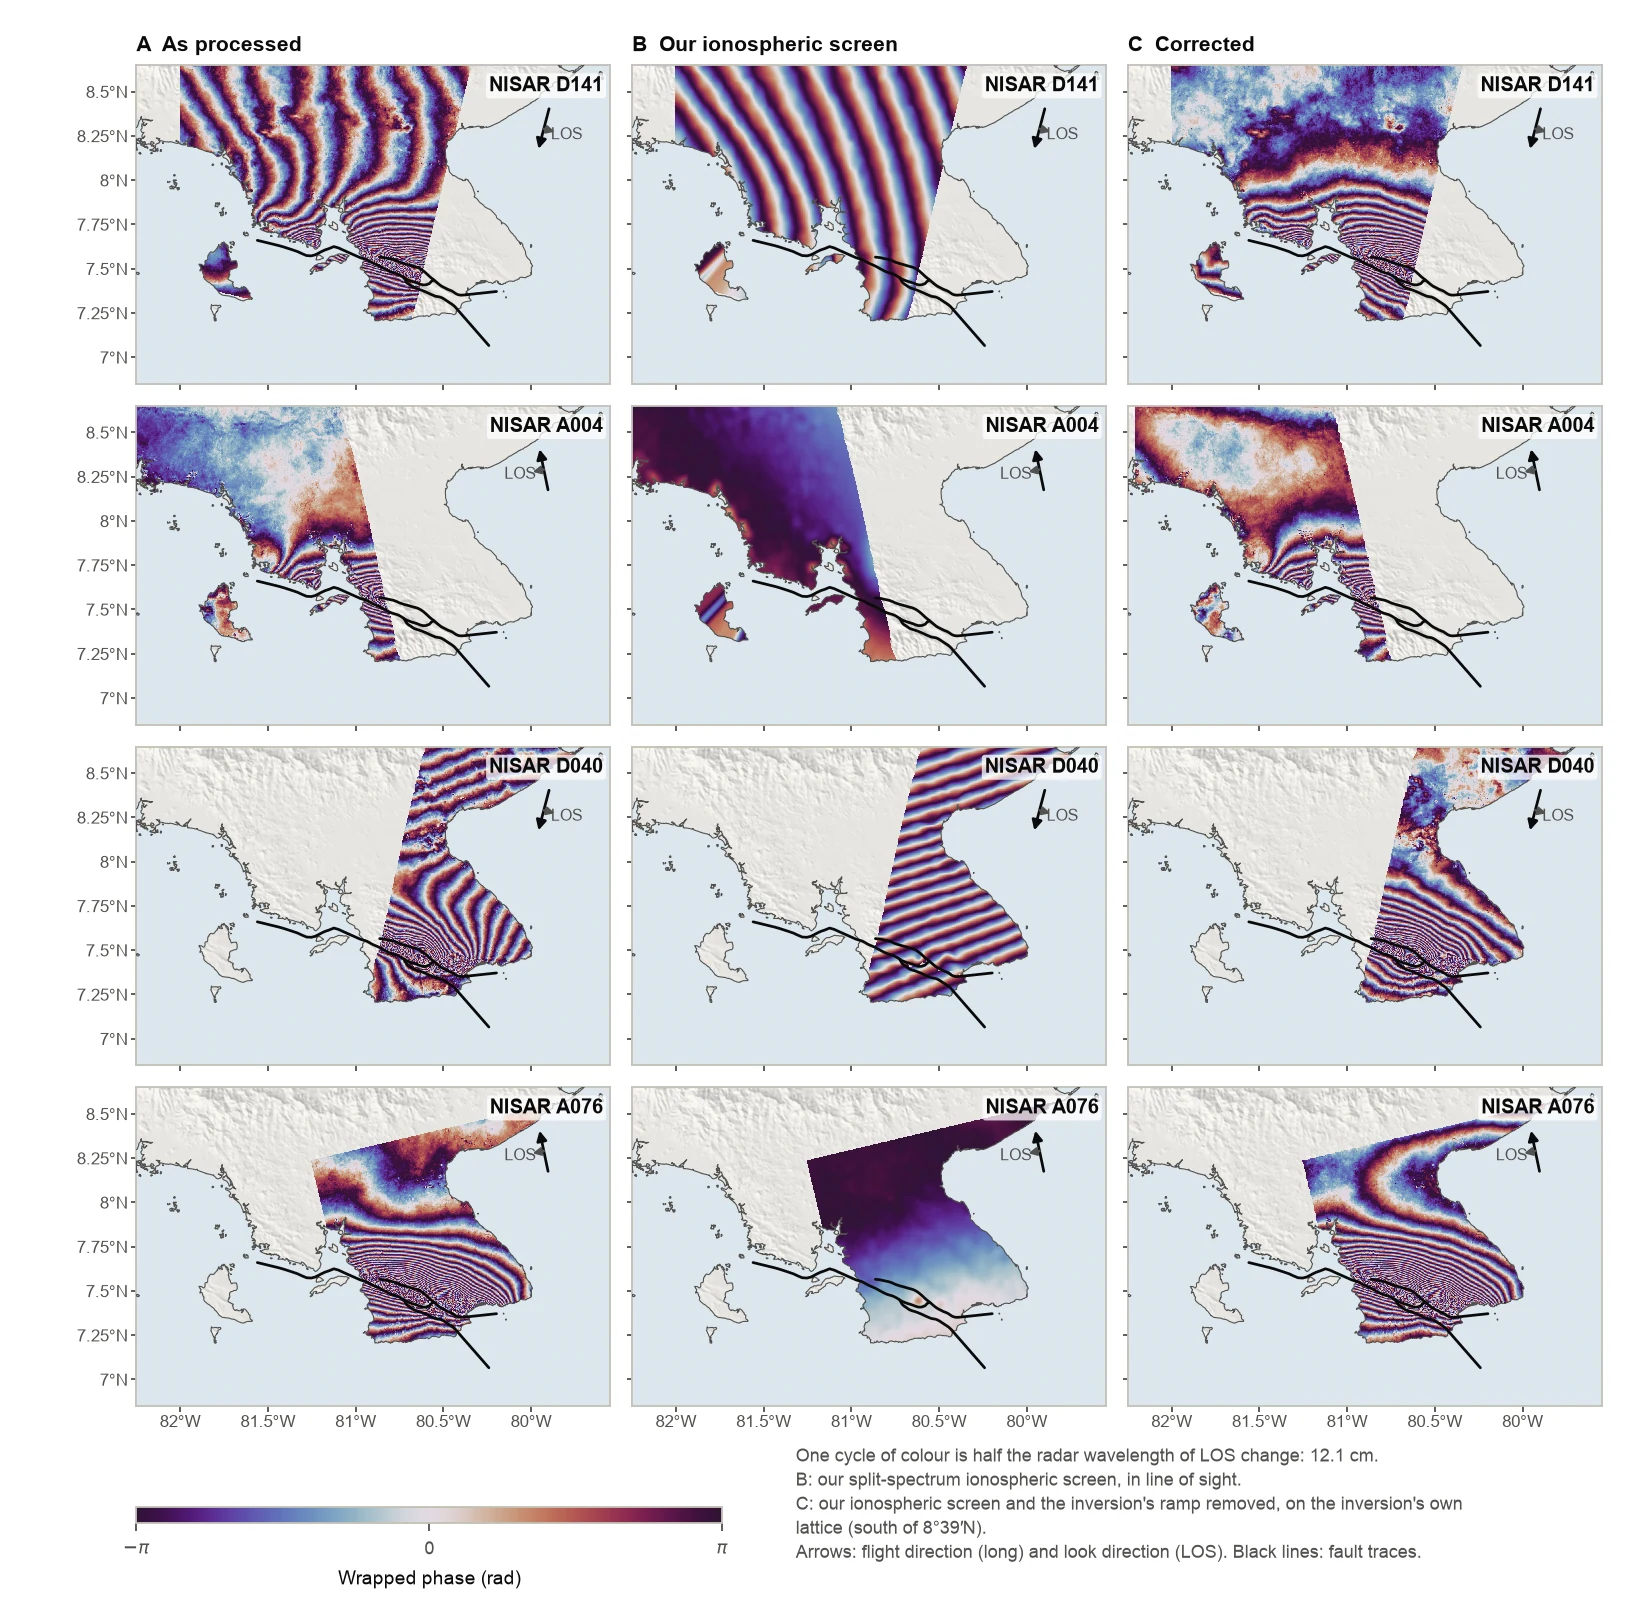
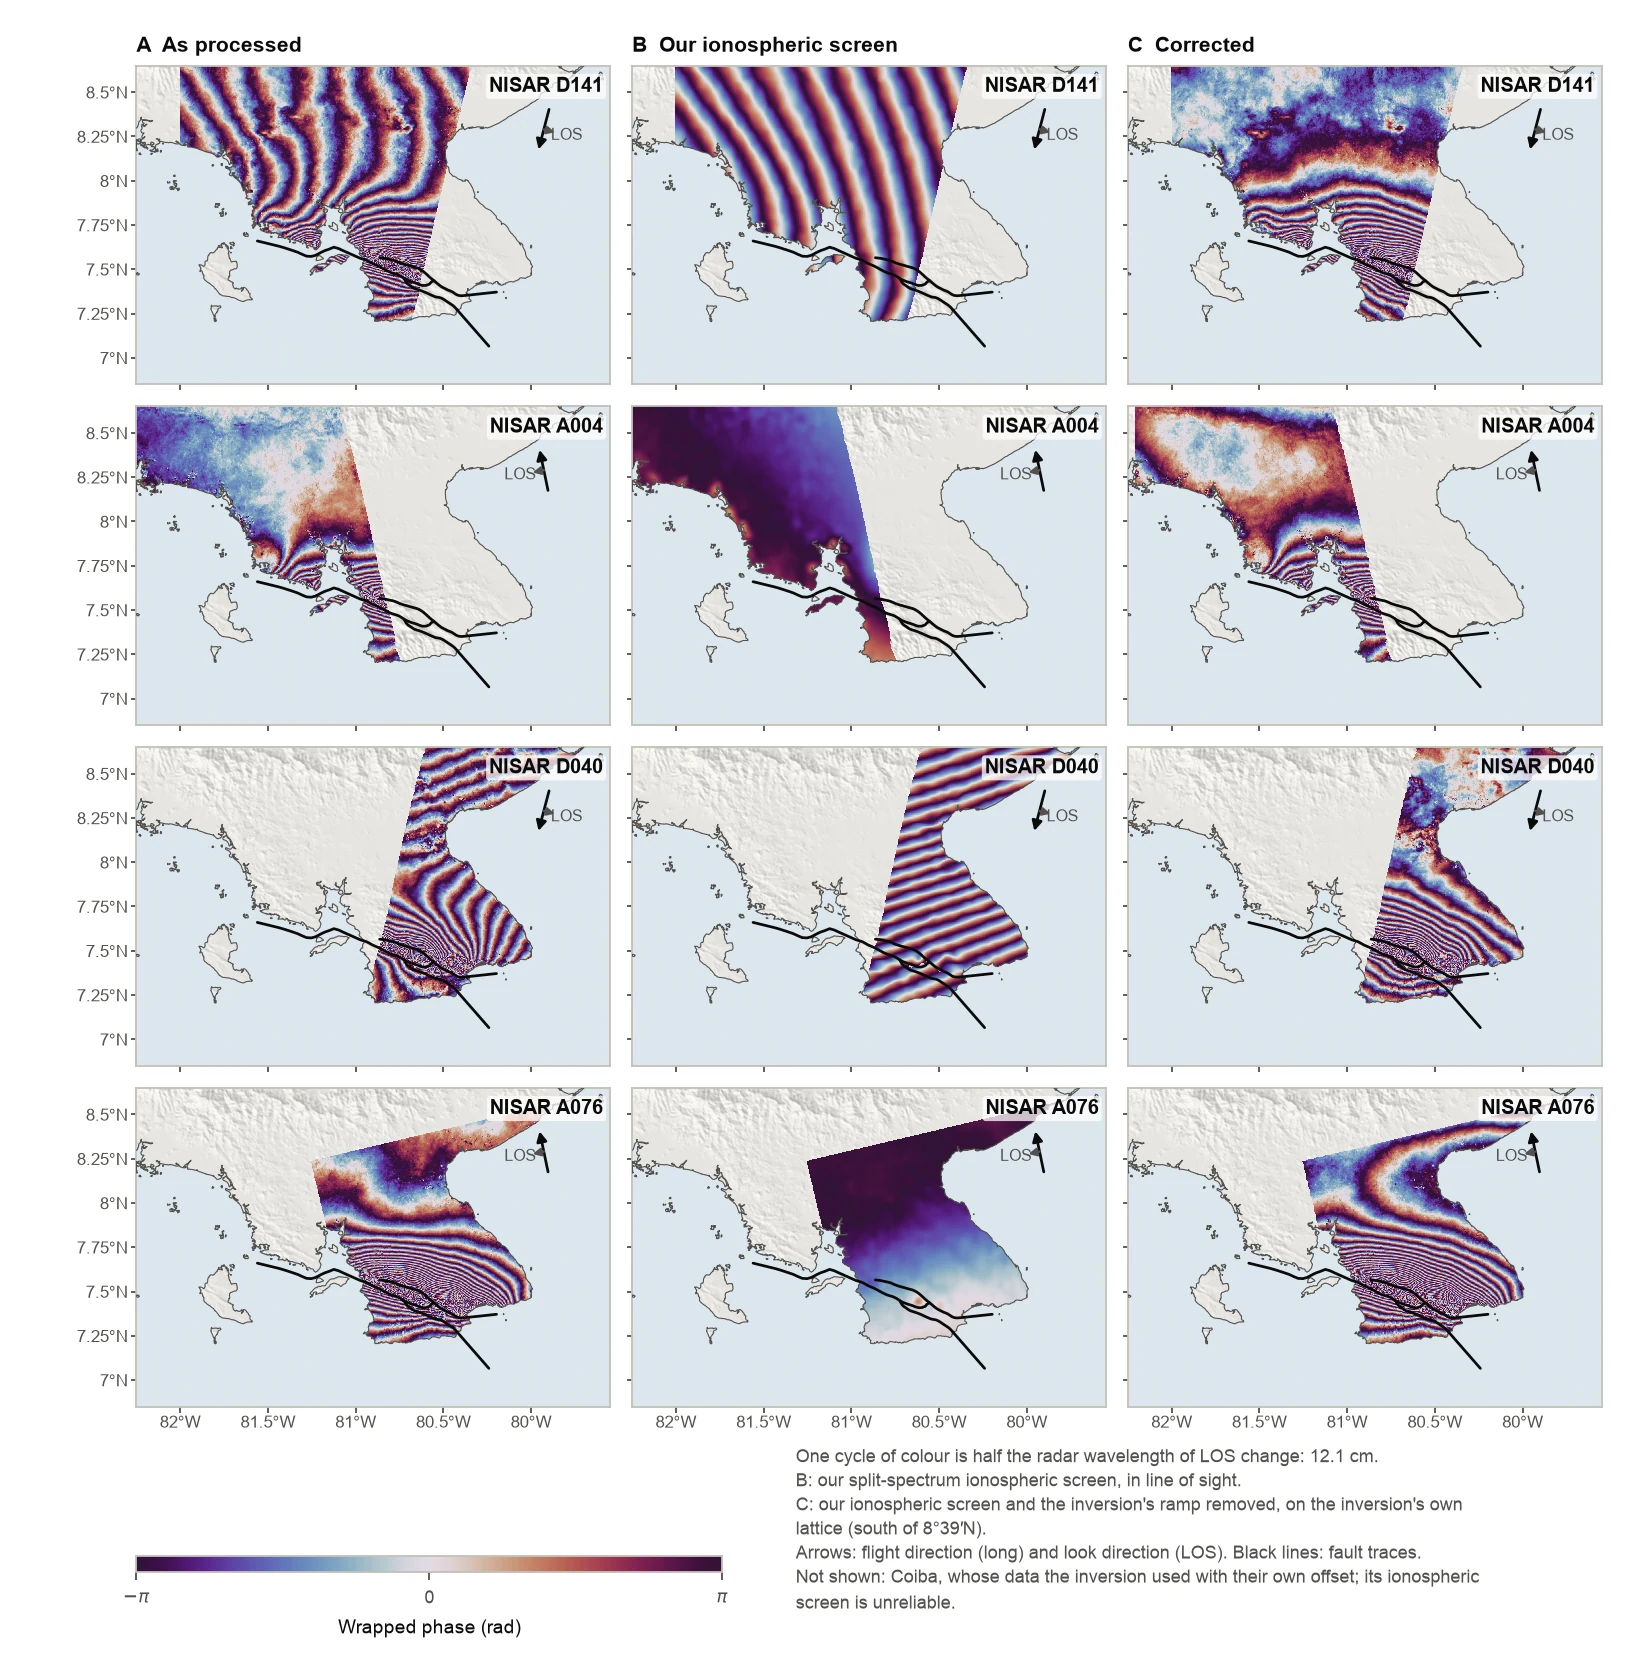
Slip models: Coiba left out of Panama's interferogram and fit figures
Its split-spectrum ionospheric screen is not continuous with the mainland's, so its
corrected data are unreliable. The model is unchanged (its samples, with their own
offset, move slip by under 1% of peak).

Claude-Session: https://claude.ai/code/session_01Jh7HRsr9rCQcLgEgc5zuzg

Changed region(s): [[0.0614, 0.0, 0.9828, 0.9907], [0.0614, 0.9288, 0.4607, 0.9907]]

diff --git a/research/slip-models/index.html b/research/slip-models/index.html
@@ -81,7 +81,7 @@
           <summary>The data: interferograms, GNSS and pixel offsets</summary>
           <figure class="slip-figure">
             <a href="../../assets/img/slip/panama_2026/insar.webp"><img src="../../assets/img/slip/panama_2026/insar.webp" alt="Interferograms of the 2026 Azuero&ndash;Soná, Panama earthquake, as processed and corrected" loading="lazy"></a>
-            <figcaption><strong>Interferograms.</strong> Each track (A) as processed, (B) our split-spectrum ionospheric screen, estimated from the two NISAR sub-bands, and (C) corrected: the screen and the inversion's ramp removed, on the inversion's own lattice (south of 8°39′N). Wrapped phase: one cycle of colour is half the radar wavelength of line-of-sight change.</figcaption>
+            <figcaption><strong>Interferograms.</strong> Each track (A) as processed, (B) our split-spectrum ionospheric screen, estimated from the two NISAR sub-bands, and (C) corrected: the screen and the inversion's ramp removed, on the inversion's own lattice (south of 8°39′N). Wrapped phase: one cycle of colour is half the radar wavelength of line-of-sight change. The island of Coiba is not shown: its ionospheric screen is unreliable.</figcaption>
           </figure>
           <figure class="slip-figure">
             <a href="../../assets/img/slip/panama_2026/gnss_offsets.webp"><img src="../../assets/img/slip/panama_2026/gnss_offsets.webp" alt="GNSS displacements and pixel offsets for the 2026 Azuero&ndash;Soná, Panama earthquake" loading="lazy"></a>
@@ -92,7 +92,7 @@
           <summary>Fits to the data and uncertainty</summary>
           <figure class="slip-figure">
             <a href="../../assets/img/slip/panama_2026/fits.webp"><img src="../../assets/img/slip/panama_2026/fits.webp" alt="Data, model and residual for the 2026 Azuero&ndash;Soná, Panama earthquake" loading="lazy"></a>
-            <figcaption><strong>Fits.</strong> Each track's samples: (A) the data with the inversion's ramp removed, (B) the model's fault part and (C) the residual, with its rms.</figcaption>
+            <figcaption><strong>Fits.</strong> Each track's samples: (A) the data with the inversion's ramp removed, (B) the model's fault part and (C) the residual, with its rms. Coiba is not shown.</figcaption>
           </figure>
           <figure class="slip-figure">
             <a href="../../assets/img/slip/panama_2026/uncertainty.webp"><img src="../../assets/img/slip/panama_2026/uncertainty.webp" alt="Uncertainty of slip for the 2026 Azuero&ndash;Soná, Panama earthquake" loading="lazy"></a>
